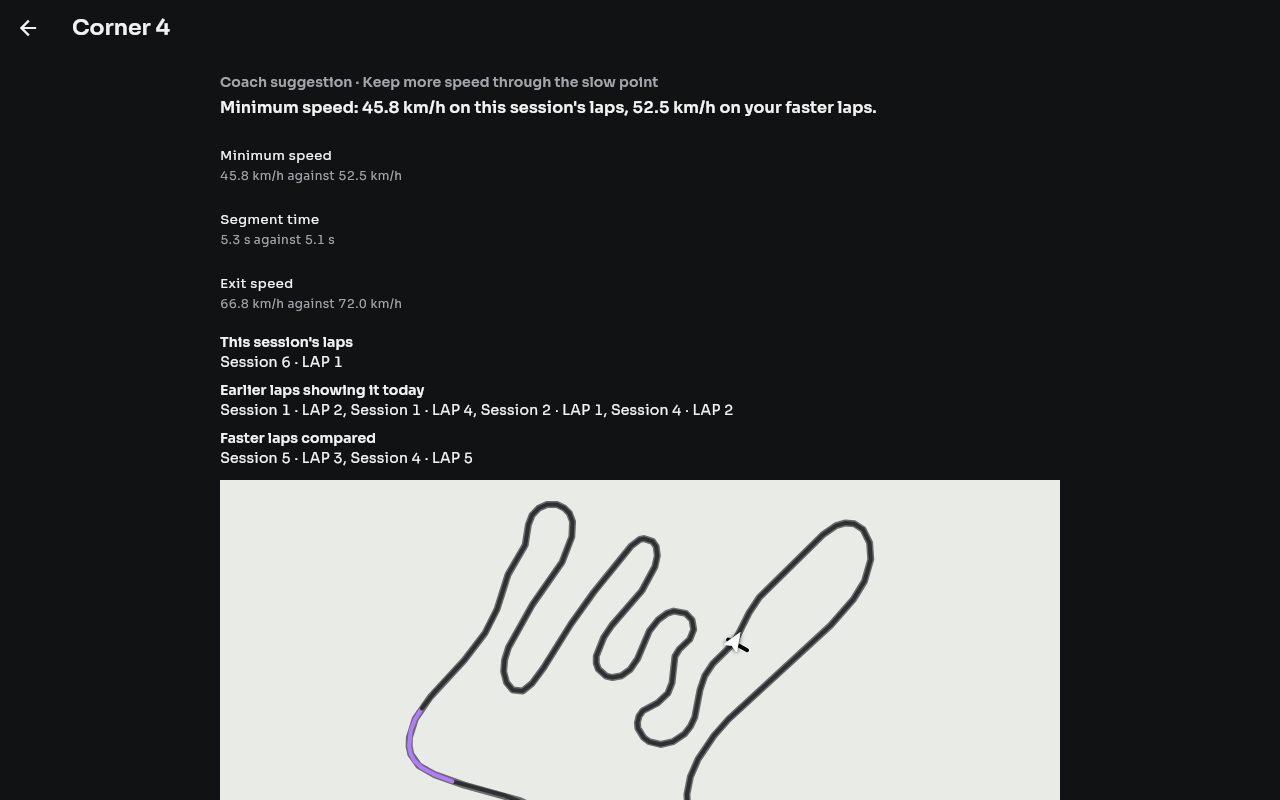
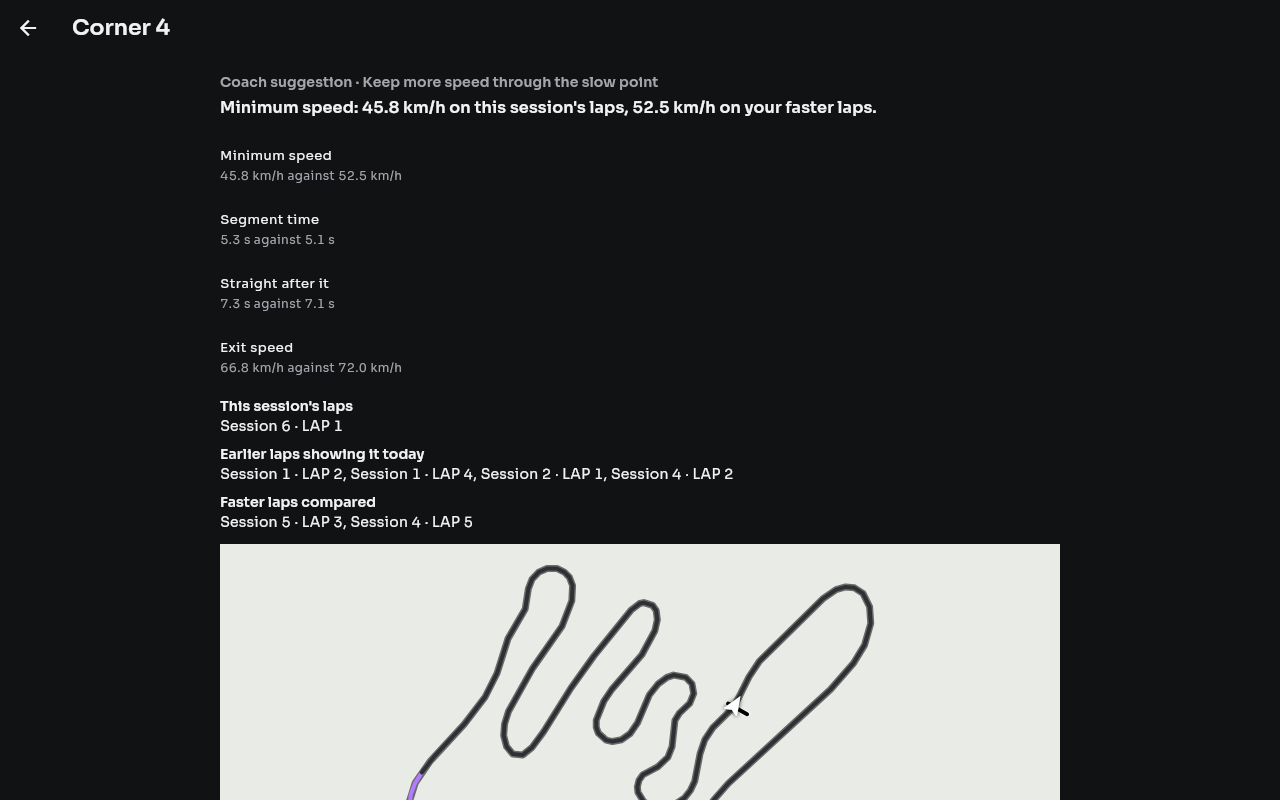
Coach: rank changes by time lost, the straight after the corner included (FET-118)
Each corner item now shows the time through the straight right after it,
and changes are ordered by the time lost through the corner plus that
straight. Within 0.1 s, the pattern seen on more laps comes first.

Claude-Session: https://claude.ai/code/session_013sS4ccJvKkVDpDaXN8zxhj

Changed region(s): [[0.1562, 0.3438, 0.8438, 1.0], [0.5938, 0.9062, 0.625, 0.9375]]

diff --git a/docs/user-guide/pages/day.html b/docs/user-guide/pages/day.html
@@ -50,7 +50,7 @@
   <li><strong>Try</strong> (or <strong>Keep</strong>, for an improvement over your last three laps) says what to work on. It never gives an exact point, and apart from the braking-marker item the braking point stays as it is.</li>
   <li><strong>Why?</strong> opens the measured values (session against faster laps), the laps they come from (<em>This session's laps</em>; <em>Earlier laps showing it today</em> lists laps of earlier sessions with the same pattern), the corner highlighted on the best lap's map, and a support score from 0 to 0.9. The score says how well the laps back the pattern; it is not a probability.</li>
 </ul>
-<p>There are at most three items: at most two changes, each in a different corner, and one thing to keep. The main focus is a change when there is one; an improvement to keep comes last. Work on one thing at a time. The suggestions look for an early lift, too much coasting, a low minimum speed and a late throttle return, using the rules of the earlier DrivingCoach app on this app's own laps and corners. Coasting means neither pedal pressed: a stretch held at light throttle (3% or more) counts as throttle, not coasting. They suggest an opportunity, not a promised gain. A change is only suggested when it was seen on at least three laps of the day so far, earlier sessions included, and the session coached still shows it on at least half of its laps compared there (laps with a faster lap to compare with). A pattern you have already left behind is not suggested again; when there is nothing else to suggest, the card then says that patterns seen earlier today do not repeat on most of this session's laps. The measured values are the session coached's own. A lap more than 5% slower than its session's typical (median) lap, in a session of at least three laps, is not read for a pattern: traffic, a warm-up or a cool-down lap says little about technique. The card lists those laps under <em>Left out as much slower than their session's typical lap</em>.</p>
+<p>There are at most three items: at most two changes, each in a different corner, and one thing to keep. The main focus is a change when there is one; an improvement to keep comes last. Changes are ordered by the time your laps lost against the laps compared: through the corner, plus the straight right after it (a slow exit costs time all the way down that straight). The card shows that straight as <em>Straight after it</em>. When two changes lose about the same time (within 0.1 s), the one seen on more of the session's laps comes first. Work on one thing at a time. The suggestions look for an early lift, too much coasting, a low minimum speed and a late throttle return, using the rules of the earlier DrivingCoach app on this app's own laps and corners. Coasting means neither pedal pressed: a stretch held at light throttle (3% or more) counts as throttle, not coasting. They suggest an opportunity, not a promised gain. A change is only suggested when it was seen on at least three laps of the day so far, earlier sessions included, and the session coached still shows it on at least half of its laps compared there (laps with a faster lap to compare with). A pattern you have already left behind is not suggested again; when there is nothing else to suggest, the card then says that patterns seen earlier today do not repeat on most of this session's laps. The measured values are the session coached's own. A lap more than 5% slower than its session's typical (median) lap, in a session of at least three laps, is not read for a pattern: traffic, a warm-up or a cool-down lap says little about technique. The card lists those laps under <em>Left out as much slower than their session's typical lap</em>.</p>
 <p>The coach also looks at where you start braking, a check of this app's own. <em>Brake at the same point every lap</em> appears when at least two laps of the session start braking for a corner 10 m or more from where the session usually brakes there, the earliest and the latest are at least 20 m apart (and four sample spacings), and that is at least 20 m more than across your three fastest laps of the day. It reads only laps where the brake is recorded and the braking for the corner starts cleanly (not already under way, not next to a gap in the data) and lasts at least half a second, so a dab does not count. It needs at least three such laps in the session, leaves out much slower laps, and suggests one braking marker at a time.</p>
 <p>Speeds carry the unit your recordings declare, without a unit when they declare none, and are never converted. They follow the speed unit setting for recordings that declare no unit. The coach compares speeds in their own units, so a day recorded in mph is coached in mph. If the recordings use different units, the coach still compares them correctly but leaves its speeds out (shown as —) and the card says why.</p>
 <p>When there is nothing to suggest, the card says why: for example that a pattern was seen on fewer than three laps today, that patterns seen earlier today do not repeat in this session, that no lap of the session has a faster lap to compare with, or that throttle and brake are not recorded (lift, coasting and throttle return then cannot be compared). The <a href="theoretical-best.html#look-next">Where to look next</a> card under it lists observations: places worth a closer look, without telling you what to do.</p>

diff --git a/packages/telemetry_core/lib/src/day/day_coach.dart b/packages/telemetry_core/lib/src/day/day_coach.dart
@@ -90,6 +90,10 @@ const _unclearOnset = {
 /// preferred as its reference: a lap within reach, not only the day's best.
 const double coachReachSeconds = 1.5;
 
+/// Plan items losing time within this many seconds of each other are
+/// ranked by how many laps show them instead (see [dayCoach]'s plan).
+const double coachRankSeconds = 0.1;
+
 enum CoachKind {
   earlyLift,
   excessiveCoasting,
@@ -115,6 +119,10 @@ enum CoachMetric {
   brakingStart,
   coastDistance,
   brakingSpread,
+
+  /// The time through the straight right after the corner: a slow exit
+  /// loses time there too.
+  nextStraightTime,
 }
 
 /// Why the plan is what it is, for the app to say in its language.
@@ -369,6 +377,7 @@ final class _Passage {
     this.pickup,
     this.coastSeconds,
     this.coastMeters,
+    this.nextSeconds,
   });
 
   final DayLapRow lap;
@@ -398,6 +407,9 @@ final class _Passage {
   /// The longest coast from the approach to the exit.
   final double? coastSeconds;
   final double? coastMeters;
+
+  /// Through the straight right after the segment, when one follows it.
+  final double? nextSeconds;
 
   double get lapSeconds => lap.durationSeconds;
 }
@@ -595,9 +607,15 @@ DayCoach dayCoach(
     final index = corner.segmentIndex;
     final start = corner.startProgressMeters, end = corner.endProgressMeters;
     final passages = <_Passage>[];
+    // The straight right after the corner, within the lap.
+    final segments = computed.approved.segments;
+    final next = index + 1 < segments.length && segments[index + 1]['type'] == 'straight'
+        ? index + 1
+        : null;
     for (final sectors in result.laps) {
       final lap = sectors.lap;
       final seconds = sectors.seconds(index);
+      final nextSeconds = next == null ? null : sectors.seconds(next);
       final metrics = corner.metrics(lap.reference);
       final trace = traces[lap.reference];
       final session = sessions[lap.runId];
@@ -693,6 +711,7 @@ DayCoach dayCoach(
           pickup: pickup,
           coastSeconds: coastSeconds,
           coastMeters: coastMeters,
+          nextSeconds: nextSeconds,
         ),
       );
     }
@@ -977,6 +996,20 @@ CoachFinding? _corrective(
       referenceLaps: referenceLaps,
       detail: 'Observed segment difference, not a predicted gain or a causal time-loss estimate.',
     ),
+    if (now.every(
+      (o) => o.current.nextSeconds != null && o.references.every((r) => r.nextSeconds != null),
+    ))
+      CoachEvidence(
+        key: CoachMetric.nextStraightTime,
+        metric: 'Straight after it',
+        observed: medianOf((p) => p.nextSeconds!),
+        reference: referenceOf((p) => p.nextSeconds!),
+        unit: 's',
+        referenceLaps: referenceLaps,
+        detail:
+            'Time through the straight right after this segment: time lost on the exit shows '
+            'there. Observed, not a predicted gain.',
+      ),
     if (now.every((o) => o.current.exit != null && o.references.every((r) => r.exit != null)))
       CoachEvidence(
         key: CoachMetric.exitSpeed,
@@ -1232,16 +1265,24 @@ List<CoachItem> _plan(List<CoachFinding> findings) {
       if (!f.kind.corrective) f.segmentId,
   };
   eligible.removeWhere((f) => f.kind.corrective && improving.contains(f.segmentId));
+  // The time lost through the segment and the straight right after it.
   double gap(CoachFinding f) {
+    var lost = 0.0;
     for (final e in f.evidence) {
-      if (e.key == CoachMetric.segmentTime) return e.observed - e.reference;
+      if (e.key == CoachMetric.segmentTime || e.key == CoachMetric.nextStraightTime) {
+        lost += e.observed - e.reference;
+      }
     }
-    return 0.0;
+    return lost;
   }
 
   eligible.sort((a, b) {
     final repeated = (b.repeated ? 1 : 0).compareTo(a.repeated ? 1 : 0);
     if (repeated != 0) return repeated;
+    // More time lost comes first; differences under coachRankSeconds are
+    // within the noise of the sector times.
+    final lost = gap(b) - gap(a);
+    if (lost.abs() >= coachRankSeconds) return lost > 0 ? 1 : -1;
     // A pattern more of the session coached's laps show comes first.
     final session = b.sessionLaps.length.compareTo(a.sessionLaps.length);
     if (session != 0) return session;

diff --git a/packages/telemetry_core/test/day/day_coach_test.dart b/packages/telemetry_core/test/day/day_coach_test.dart
@@ -310,6 +310,31 @@ void main() {
     expect(coach.findings.where((f) => f.kind == CoachKind.inconsistentBraking), isEmpty);
   });
 
+  test('a corner shows the time through the straight after it', () {
+    final coach = _coach([20, 20.5], [17, 17.2, 17.1]);
+    final evidence = coach.plan.first.finding.evidence;
+    final straight = evidence.singleWhere((e) => e.key == CoachMetric.nextStraightTime);
+    expect(straight.observed, greaterThan(straight.reference));
+  });
+
+  test('the corner losing more time leads the plan, even on fewer laps', () {
+    // The second corner is far slower on three laps, the first a little
+    // slower on all four.
+    final second = {20.0: 20.0, 20.5: 20.5, 17.0: 11.0, 17.2: 11.2, 17.1: 11.1, 17.3: 20.0};
+    double Function(double) shape(double slow) {
+      final first = _lap(slow);
+      final other = second[slow]!;
+      return (d) => d >= 307 && d <= 407 ? other + (30 - other) * (d - 357).abs() / 50 : first(d);
+    }
+
+    final coach = _coach([20, 20.5], [17, 17.2, 17.1, 17.3], shape: shape);
+    expect(coach.plan, hasLength(2));
+    final [first, later] = [for (final item in coach.plan) item.finding];
+    expect(first.sessionLaps, hasLength(3));
+    expect(later.sessionLaps, hasLength(4));
+    expect(coach.focus!.finding, same(first));
+  });
+
   test('braking points that agree make no braking item', () {
     final coach = _coach([20, 20.5], [17, 17.2, 17.1]);
     expect(coach.findings.where((f) => f.kind == CoachKind.inconsistentBraking), isEmpty);

diff --git a/lib/l10n/app_localizations.dart b/lib/l10n/app_localizations.dart
@@ -536,6 +536,12 @@ abstract class AppLocalizations {
   /// **'Braking point range'**
   String get coachMetricBrakingSpread;
 
+  /// Time through the straight right after the corner; a slow exit loses time there too.
+  ///
+  /// In en, this message translates to:
+  /// **'Straight after it'**
+  String get coachMetricNextStraightTime;
+
   /// Above the coach items.
   ///
   /// In en, this message translates to:

diff --git a/lib/day/next_session_card.dart b/lib/day/next_session_card.dart
@@ -41,6 +41,7 @@ extension CoachText on AppLocalizations {
     CoachMetric.brakingStart => coachMetricBrakingStart,
     CoachMetric.coastDistance => coachMetricCoastDistance,
     CoachMetric.brakingSpread => coachMetricBrakingSpread,
+    CoachMetric.nextStraightTime => coachMetricNextStraightTime,
   };
 
   /// Why the plan is what it is; [session] names the session coached.

diff --git a/lib/l10n/app_localizations_pl.dart b/lib/l10n/app_localizations_pl.dart
@@ -293,6 +293,9 @@ class AppLocalizationsPl extends AppLocalizations {
   String get coachMetricBrakingSpread => 'Zakres punktów hamowania';
 
   @override
+  String get coachMetricNextStraightTime => 'Prosta za zakrętem';
+
+  @override
   String get coachReasonReady =>
       'Najpierw pracuj nad głównym celem. Po pozostałe sięgnij dopiero, gdy on już wychodzi.';
 

diff --git a/lib/l10n/app_localizations_en.dart b/lib/l10n/app_localizations_en.dart
@@ -286,6 +286,9 @@ class AppLocalizationsEn extends AppLocalizations {
   String get coachMetricBrakingSpread => 'Braking point range';
 
   @override
+  String get coachMetricNextStraightTime => 'Straight after it';
+
+  @override
   String get coachReasonReady =>
       'Work on the main focus first. Try the others only once it feels settled.';
 
